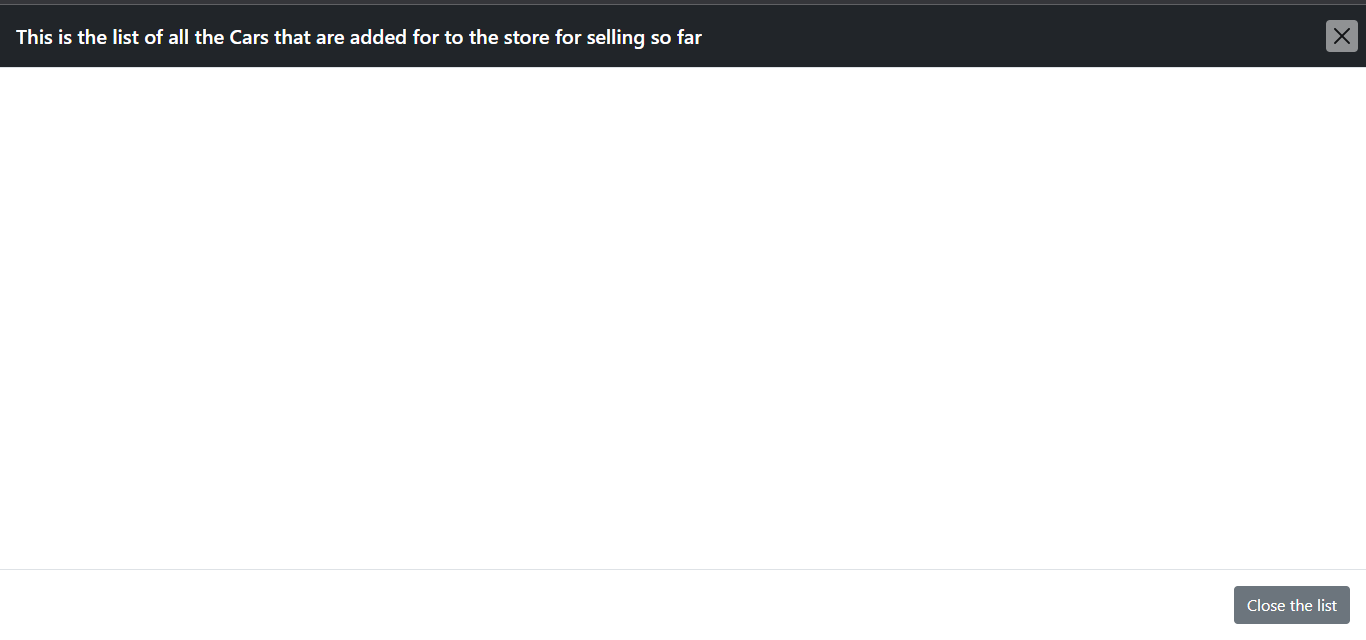
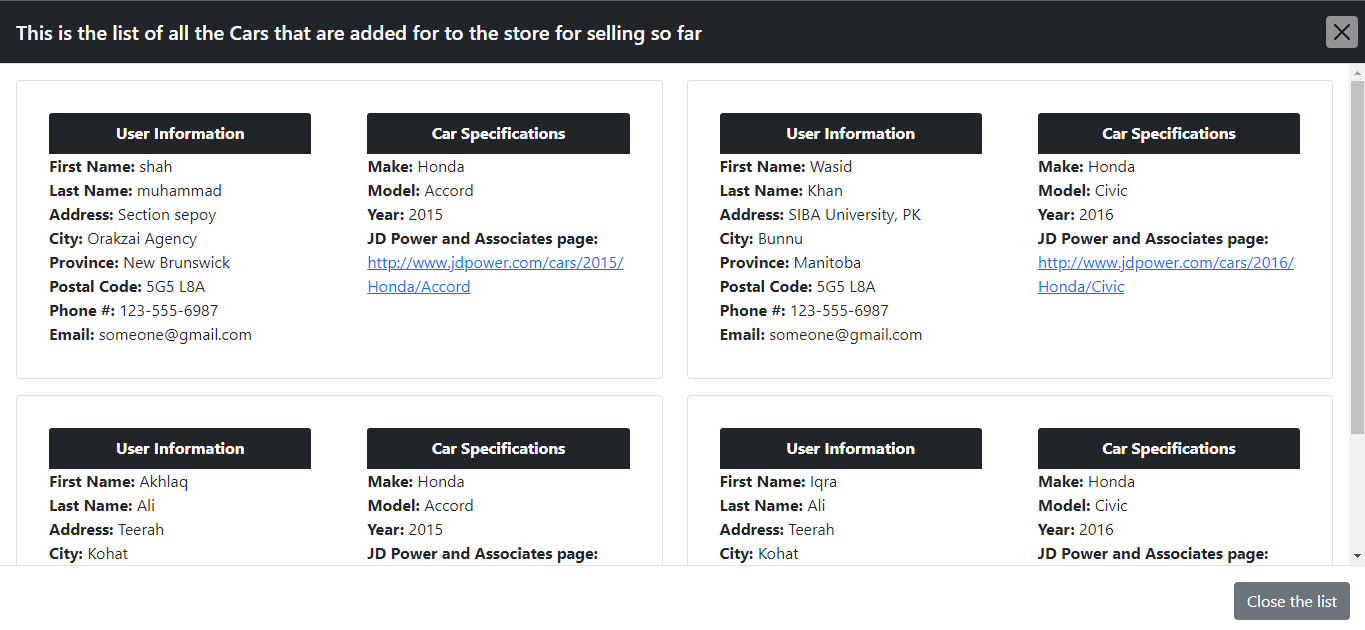
Finishing the project

diff --git a/Home.html b/Home.html
@@ -112,8 +112,8 @@
                                     <div class="col-sm-6 m-0">
                                       <div class="card border-0">
                                         <div class="card-body m-0">
-                                            <div class="card-header bg-light" style="color:black; text-align: center;">
-                                                User Information
+                                            <div class="card-header bg-dark" style="color:white; text-align: center;">
+                                                <b>User Information</b>
                                             </div> 
                                             <div id="ui1">
 
@@ -124,8 +124,8 @@
                                     <div class="col-sm-6 m-0">
                                       <div class="card border-0">
                                         <div class="card-body m-0">
-                                            <div class="card-header bg-light" style="color: black; text-align: center;">
-                                                Car Specifications
+                                            <div class="card-header bg-dark" style="color: white; text-align: center;">
+                                                <b>Car Specifications</b>
                                             </div>
                                             <div id="ve1">
 
@@ -144,8 +144,8 @@
                                     <div class="col-sm-6 m-0">
                                       <div class="card border-0">
                                         <div class="card-body m-0">
-                                            <div class="card-header bg-light" style="color:black; text-align: center;">
-                                                User Information
+                                            <div class="card-header bg-dark" style="color:white; text-align: center;">
+                                                <b>User Information</b>
                                             </div>      
                                             <div id="ui2">
 
@@ -156,8 +156,8 @@
                                     <div class="col-sm-6 m-0">
                                       <div class="card border-0">
                                         <div class="card-body m-0">
-                                            <div class="card-header bg-light" style="color: black; text-align: center;">
-                                                Car Specifications
+                                            <div class="card-header bg-dark" style="color:white; text-align: center;">
+                                                <b>Car Specifications</b>
                                             </div>
                                             <div id="ve2">
 
@@ -299,124 +299,8 @@
                     <button type="button" style="background-color: white;" class="btn-close" data-bs-dismiss="modal" aria-label="Close"></button>
                 </div>
                 <div class="modal-body">
-                    <div class="row">
-                        <div class="col-sm-6 mb-3">
-                            <div class="card"  style="min-height: 265px;">
-                                <div class="card-body" style="background-color: lightgray;">
-                                    <div class="row">
-                                        <div class="col-sm-6 m-0">
-                                            <div class="card">
-                                                <div class="card-body p-2 m-0">
-                                                    <div class="card-header bg-light" style="color:black; text-align: center;">
-                                                        User Information
-                                                    </div>      
-                                                                                        
-                                                </div>
-                                            </div>
-                                        </div>
-                                        <div class="col-sm-6 m-0">
-                                        <div class="card">
-                                            <div class="card-body p-2 m-0">
-                                                <div class="card-header bg-light" style="color: black; text-align: center;">
-                                                    Car Specifications
-                                                </div>
-                                                
-                                            </div>
-                                        </div>
-                                        </div>
-                                    </div>
-                                </div>
-                            </div>
-                        </div>
-                    
-                        <div class="col-sm-6 mb-3" >
-                            <div class="card" style="min-height: 265px;">
-                                <div class="card-body" style="background-color: lightgray;">
-                                    <div class="row">
-                                        <div class="col-sm-6 m-0">
-                                            <div class="card">
-                                                <div class="card-body p-2 m-0">
-                                                    <div class="card-header bg-light" style="color:black; text-align: center;">
-                                                        User Information
-                                                    </div>      
-                                                                                
-                                                </div>
-                                            </div>
-                                        </div>
-                                        <div class="col-sm-6 m-0">
-                                            <div class="card">
-                                                <div class="card-body p-2 m-0">
-                                                    <div class="card-header bg-light" style="color: black; text-align: center;">
-                                                        Car Specifications
-                                                    </div>
-                                                
-                                                </div>  
-                                            </div>
-                                        </div>
-                                    </div>
-                                </div>
-                            </div>
-                        </div> 
+                    <div class="row" id="listCard">
                         
-                        <div class="col-sm-6 mb-3" >
-                            <div class="card" style="min-height: 265px;">
-                                <div class="card-body" style="background-color: lightgray;">
-                                    <div class="row">
-                                        <div class="col-sm-6 m-0">
-                                            <div class="card">
-                                                <div class="card-body p-2 m-0">
-                                                    <div class="card-header bg-light" style="color:black; text-align: center;">
-                                                        User Information
-                                                    </div>      
-                                                                                
-                                                </div>
-                                            </div>
-                                        </div>
-                                        <div class="col-sm-6 m-0">
-                                            <div class="card">
-                                                <div class="card-body p-2 m-0">
-                                                    <div class="card-header bg-light" style="color: black; text-align: center;">
-                                                        Car Specifications
-                                                    </div>
-                                                
-                                                </div>  
-                                            </div>
-                                        </div>
-                                    </div>
-                                </div>
-                            </div>
-                        </div>    
-
-                        <div class="col-sm-6 mb-3" >
-                            <div class="card" style="min-height: 265px;">
-                                <div class="card-body" style="background-color: lightgray;">
-                                    <div class="row">
-                                        <div class="col-sm-6 m-0">
-                                            <div class="card">
-                                                <div class="card-body p-2 m-0">
-                                                    <div class="card-header bg-light" style="color:black; text-align: center;">
-                                                        User Information
-                                                    </div>      
-                                                                                
-                                                </div>
-                                            </div>
-                                        </div>
-                                        <div class="col-sm-6 m-0">
-                                            <div class="card">
-                                                <div class="card-body p-2 m-0">
-                                                    <div class="card-header bg-light" style="color: black; text-align: center;">
-                                                        Car Specifications
-                                                    </div>
-                                                
-                                                </div>  
-                                            </div>
-                                        </div>
-                                    </div>
-                                </div>
-                            </div>
-                        </div>    
-
-
                     </div>
                 </div>
                 <div class="modal-footer">
@@ -434,7 +318,7 @@
     <script>
         $(document).ready(function () {
 
-            console.log(localStorage.length)
+            // console.log(localStorage.clear())
 
             $("#add").click(function(){
                 $('#addMod').modal('show');
@@ -442,6 +326,7 @@
 
             $("#see").click(function(){
                 $('#seeMod').modal('show');
+                getAllList();
             });
 
             /*Saving the records*/
@@ -506,6 +391,7 @@
                             let x = localStorage.length;
                             localStorage.setItem("v"+x, JSON.stringify(vehicle))
                             alert("Vehical Added to the list successfully")
+                            getRecentVehicles();
 
                         }else{
                             alert("Phone Number is in the wrong format!")
@@ -571,7 +457,69 @@
             }
         
             getRecentVehicles();
-            // console.log(localStorage.getItem("v0"))
+            
+            /*Retrieving all the vehicles*/
+            function getAllList(){
+                $('#listCard').html("")
+                let ll = localStorage.length
+                for(let i=0 ; i<ll ; i++){
+                    let obj = JSON.parse(localStorage.getItem("v"+i))
+
+                    let str1 = "<b>First Name:</b> "+obj.Fname +"<br>"+
+                    "<b>Last Name: </b>"+obj.Lname + "<br>" + "<b>Address: </b>"+ obj.Address+"<br>"+
+                    "<b>City: </b>"+obj.City+"<br>"+ "<b>Province: </b>"+obj.Province +"<br>"+ 
+                    "<b>Postal Code: </b>"+ obj.Postal+"<br>"+ "<b>Phone #: </b>"+obj.Phone+"<br>"+
+                    "<b>Email: </b>"+obj.Email;
+                    
+                    let veh1 = "<b>Make: </b>"+obj.Make+"<br>"+"<b>Model: </b>"+obj.Model+"<br>"+
+                    "<b>Year: </b>"+obj.Year + "<br>" + "<b>JD Power and Associates page: </b><br>"+
+                    "<a href=\""+obj.JDP+"\">"+obj.JDP+"</a>";
+
+                    let card = `
+                    <div class="col-sm-6 mb-3">
+                        <div class="card"  style="min-height: 265px;">
+                            <div class="card-body">
+                                <div class="row">
+                                    <div class="col-sm-6 m-0">
+                                        <div class="card border-0">
+                                        <div class="card-body m-0">
+                                            <div class="card-header bg-dark" style="color:white; text-align: center;">
+                                                <b>User Information</b>
+                                            </div> 
+                                            <div id="ui1">
+                                                ${str1}    
+                                            </div>                                                                                       
+                                        </div>
+                                        </div>
+                                    </div>
+                                    <div class="col-sm-6 m-0">
+                                        <div class="card border-0">
+                                        <div class="card-body m-0">
+                                            <div class="card-header bg-dark" style="color: white; text-align: center;">
+                                                <b>Car Specifications</b>
+                                            </div>
+                                            <div id="ve1">
+                                                ${veh1}
+                                            </div>
+                                        </div>
+                                        </div>
+                                    </div>
+                                </div>
+                            </div>
+                        </div>
+                    </div>
+                    `
+
+                    $('#listCard').append(card);
+
+                }
+            }
+
+            // getAllList()
+
+            
+
+
         
 
 
